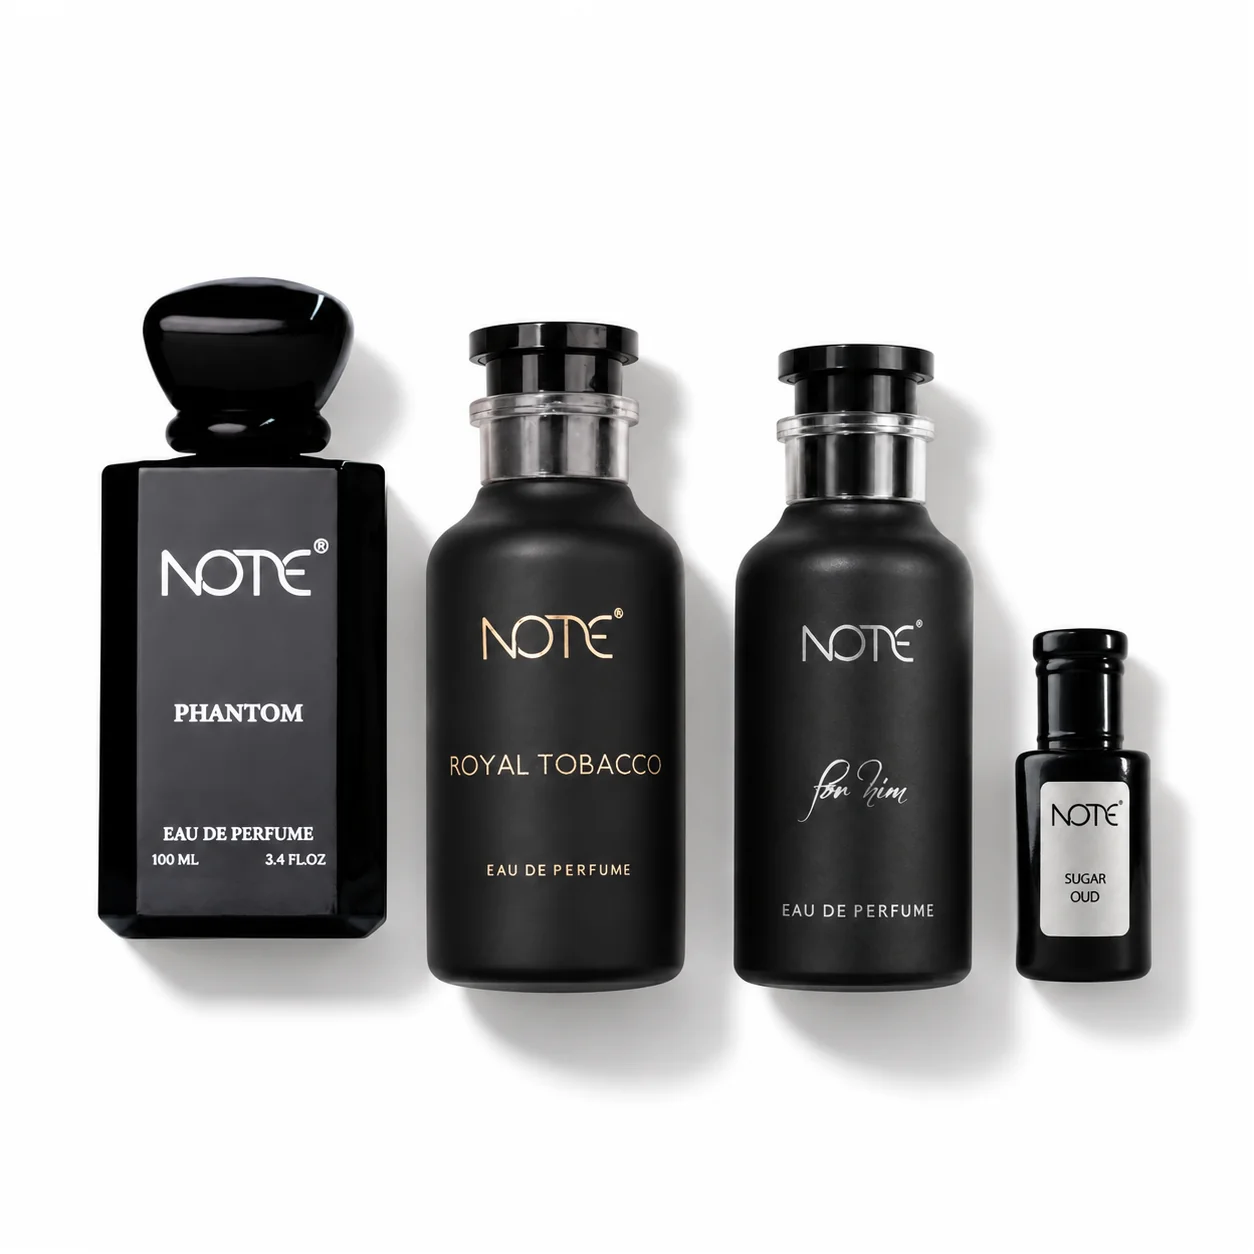
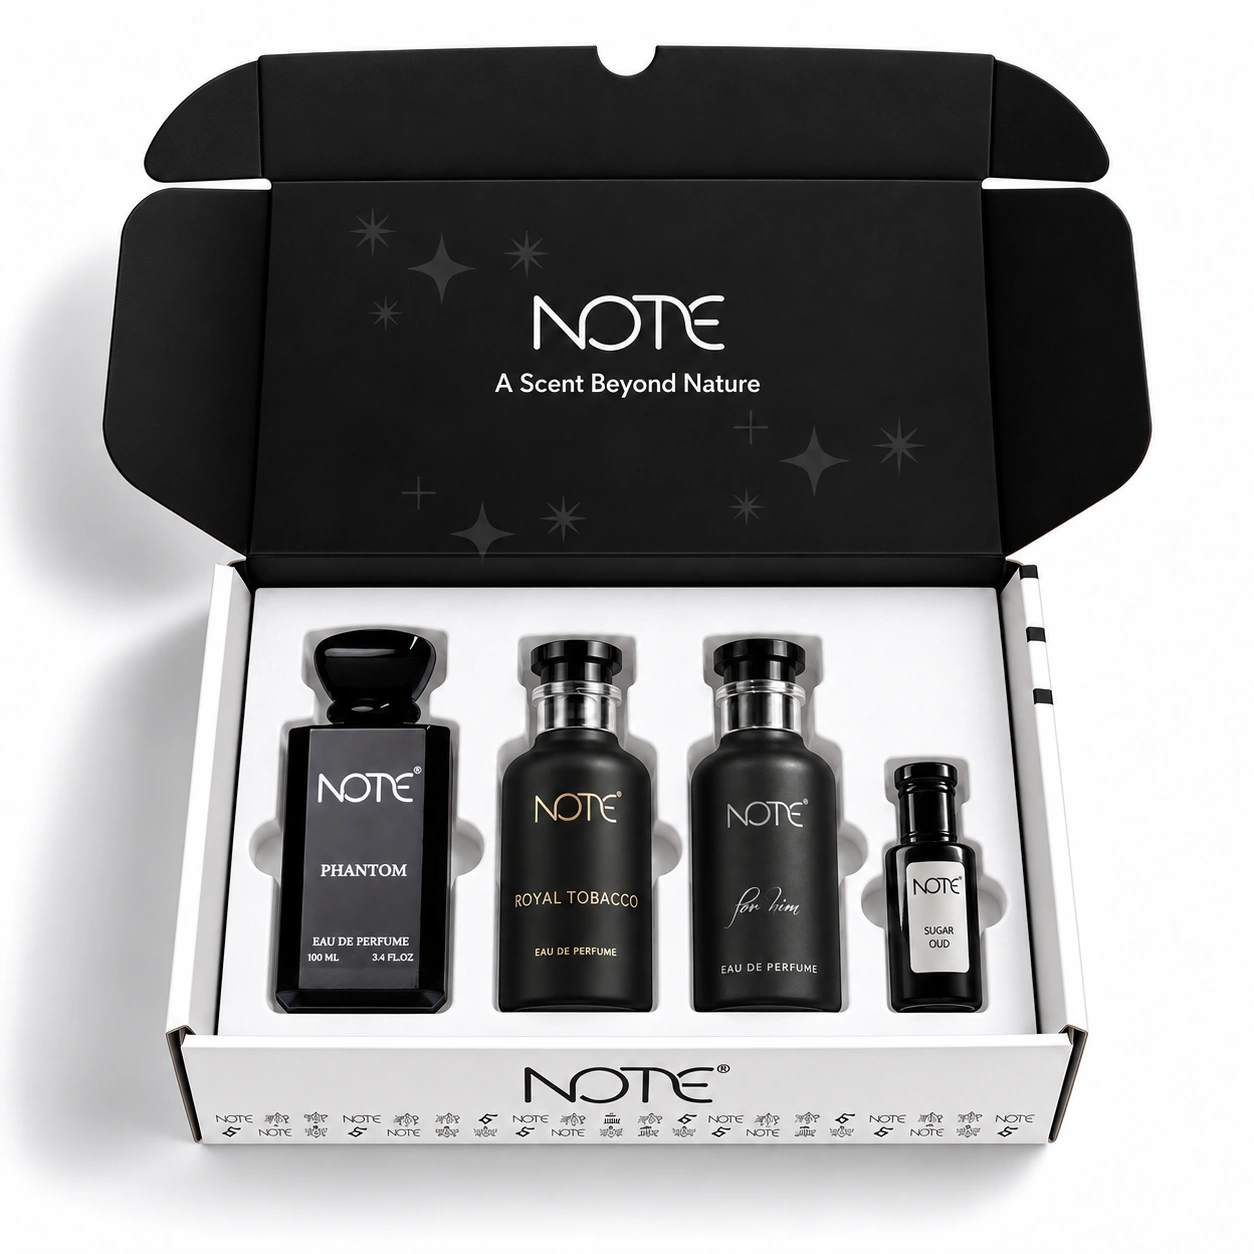
feat(packages): update package product images with luxury brand box assets

diff --git a/note-app.js b/note-app.js
@@ -2449,8 +2449,8 @@ body:has(#cart-drawer:not(.hidden)) [class*="whatsapp"],
     "discount": "30%",
     "rating": 4.95,
     "reviews_count": 52,
-    "img": "/products/01_Royal_Tobacco_White_Flatlay.webp",
-    "img_box": null,
+    "img": "/products/01_Royal_Tobacco_Brand_Box.webp",
+    "img_box": "/products/01_Royal_Tobacco_Brand_Box.webp",
     "notes": "عطر رويال توباكو 100 مل + معطر جسم رويال توباكو",
     "slogan": "ثنائية الفخامة والدفء الشتوي؛ عطر رويال توباكو المركز مع معطر الجسم المتناغم",
     "description": "تتضمن الباقة: عطر رويال توباكو 100 مل المركز بنفحات التبغ والقرنفل والفانيليا، مع معطر الجسم والشعر رويال توباكو لثبات مضاعف يدوم طوال اليوم.",
@@ -2473,8 +2473,8 @@ body:has(#cart-drawer:not(.hidden)) [class*="whatsapp"],
     "discount": "54%",
     "rating": 4.98,
     "reviews_count": 48,
-    "img": "/products/02_Powderose_White_Flatlay.webp",
-    "img_box": null,
+    "img": "/products/02_Powderose_Brand_Box.webp",
+    "img_box": "/products/02_Powderose_Brand_Box.webp",
     "notes": "عطر باودروز 100 مل + معطر جسم باودروز + عطر رويال باودر 100 مل",
     "slogan": "توليفة البودرة والورد الساحرة؛ باقة أنثوية ناعمة تأسرك بنقائها المخملي الفائق",
     "description": "تتضمن الباقة: عطر باودروز 100 مل + معطر الجسم والشعر باودروز + عطر رويال باودر 100 مل. ثلاثية استثنائية لعشاق النفحات البودرية والورد الملكي.",
@@ -2497,8 +2497,8 @@ body:has(#cart-drawer:not(.hidden)) [class*="whatsapp"],
     "discount": "49%",
     "rating": 4.92,
     "reviews_count": 36,
-    "img": "/products/03_Summer_Escape_White_Flatlay.webp",
-    "img_box": null,
+    "img": "/products/03_Summer_Escape_Brand_Box.webp",
+    "img_box": "/products/03_Summer_Escape_Brand_Box.webp",
     "notes": "عطر نوت قولد 100 مل + معطر جسم عسل + معطر جسم بحر",
     "slogan": "انتعاش نسائم البحر وحلاوة العسل مع إشراقة الذهب؛ باقة الصيف الأكثر حيوية ونضارة",
     "description": "تتضمن الباقة: عطر نوت قولد 100 مل مع معطر جسم عسل ومعطر جسم بحر. مزيج متناغم بين الانتعاش البحري البارد ونعومة نفحات العسل الذهبية.",
@@ -2521,8 +2521,8 @@ body:has(#cart-drawer:not(.hidden)) [class*="whatsapp"],
     "discount": "50%",
     "rating": 4.96,
     "reviews_count": 61,
-    "img": "/products/04_Her_Signature_White_Flatlay.webp",
-    "img_box": null,
+    "img": "/products/04_Her_Signature_Brand_Box.webp",
+    "img_box": "/products/04_Her_Signature_Brand_Box.webp",
     "notes": "تولة ليدي روز + عطر أتراكشن 100 مل + عطر نوت فور هير 100 مل",
     "slogan": "توقيع المرأة الأنيقة؛ باقة تجمع بين جاذبية أتراكشن وأنوثة فور هير ورقة تولة ليدي روز",
     "description": "تتضمن الباقة: تولة دهن ليدي روز النقي + عطر أتراكشن 100 مل + عطر نوت فور هير 100 مل. ثلاثية الأناقة المطلقة والجاذبية التي لا تُنسى.",
@@ -2545,8 +2545,8 @@ body:has(#cart-drawer:not(.hidden)) [class*="whatsapp"],
     "discount": "59%",
     "rating": 4.99,
     "reviews_count": 79,
-    "img": "/products/05_Mens_Signature_White_Flatlay.webp",
-    "img_box": null,
+    "img": "/products/05_Mens_Signature_Brand_Box.webp",
+    "img_box": "/products/05_Mens_Signature_Brand_Box.webp",
     "notes": "فانتوم 100 مل + رويال توباكو 100 مل + فور هِم 100 مل + تولة شوجر عود",
     "slogan": "الرباعي الرجالي المتكامل؛ أربعة إصدارات أسطورية تمنحك الحضور والمهابة في كل المناسبات",
     "description": "تتضمن الباقة: عطر فانتوم 100 مل + عطر رويال توباكو 100 مل + عطر فور هِم 100 مل + تولة دهن شوجر عود الفاخر. الباقة الأقوى والأوفر للرجل الباحث عن التميز الكامل.",
@@ -2569,8 +2569,8 @@ body:has(#cart-drawer:not(.hidden)) [class*="whatsapp"],
     "discount": "53%",
     "rating": 4.97,
     "reviews_count": 55,
-    "img": "/products/06_Night_Signature_White_Flatlay.webp",
-    "img_box": null,
+    "img": "/products/06_Night_Signature_Brand_Box.webp",
+    "img_box": "/products/06_Night_Signature_Brand_Box.webp",
     "notes": "عطر فانتوم 100 مل + عطر مسك بخور 100 مل + عطر عود روز وود 100 مل",
     "slogan": "ثلاثية الليالي الملكية؛ فخامة العود الشرقي وسحر البخور وهيبة فانتوم لأمسيات لا تُنسى",
     "description": "تتضمن الباقة: عطر فانتوم 100 مل + عطر مسك بخور 100 مل + عطر عود روز وود 100 مل. تشكيلة ليلية ثقيلة وفواحة تلائم المناسبات الكبرى والاحتفالات.",
@@ -2593,8 +2593,8 @@ body:has(#cart-drawer:not(.hidden)) [class*="whatsapp"],
     "discount": "33%",
     "rating": 4.94,
     "reviews_count": 42,
-    "img": "/products/07_Tollah_Collection_White_Flatlay.webp",
-    "img_box": null,
+    "img": "/products/07_Tollah_Collection_Brand_Box.webp",
+    "img_box": "/products/07_Tollah_Collection_Brand_Box.webp",
     "notes": "اختر أي 3 تولات من دهن المسك والعود الملكي النقي",
     "slogan": "أصالة المسك والدهن النقي؛ اختر تولاتك المفضلة بثبات خيالي يرافقك لأيام",
     "description": "تتيح لك الباقة اختيار أي 3 تولات من تشكيلة دهن العود والمسك النقي (شوجر عود، ليدي روز، مسك توفي، وغيرها) بنقاء 100% وبسعر توفيري مذهل.",
@@ -2617,8 +2617,8 @@ body:has(#cart-drawer:not(.hidden)) [class*="whatsapp"],
     "discount": "44%",
     "rating": 4.93,
     "reviews_count": 39,
-    "img": "/products/08_All_Over_Spray_Collection_White_Flatlay.webp",
-    "img_box": null,
+    "img": "/products/08_All_Over_Spray_Brand_Box.webp",
+    "img_box": "/products/08_All_Over_Spray_Brand_Box.webp",
     "notes": "اختر أي 3 معطرات جسم وشعر من تشكيلة نوت الفاخرة",
     "slogan": "الانتعاش اليومي الكامل للجسم والشعر؛ ثلاث عبوات بحجم كبير تمنحك إحساس النظافة الدائم",
     "description": "اختر أي 3 معطرات جسم وشعر (رويال توباكو، باودروز، عسل، بحر، شوكونيلا، أو نوت توفي) برذاذ خفيف يدوم طويلاً ولا يترك أي أثر.",

diff --git a/products-data.js b/products-data.js
@@ -927,8 +927,8 @@ const noteProductsCatalog = [
     "discount": "30%",
     "rating": 4.95,
     "reviews_count": 52,
-    "img": "/products/01_Royal_Tobacco_White_Flatlay.webp",
-    "img_box": null,
+    "img": "/products/01_Royal_Tobacco_Brand_Box.webp",
+    "img_box": "/products/01_Royal_Tobacco_Brand_Box.webp",
     "notes": "عطر رويال توباكو 100 مل + معطر جسم رويال توباكو",
     "slogan": "ثنائية الفخامة والدفء الشتوي؛ عطر رويال توباكو المركز مع معطر الجسم المتناغم",
     "description": "تتضمن الباقة: عطر رويال توباكو 100 مل المركز بنفحات التبغ والقرنفل والفانيليا، مع معطر الجسم والشعر رويال توباكو لثبات مضاعف يدوم طوال اليوم.",
@@ -951,8 +951,8 @@ const noteProductsCatalog = [
     "discount": "54%",
     "rating": 4.98,
     "reviews_count": 48,
-    "img": "/products/02_Powderose_White_Flatlay.webp",
-    "img_box": null,
+    "img": "/products/02_Powderose_Brand_Box.webp",
+    "img_box": "/products/02_Powderose_Brand_Box.webp",
     "notes": "عطر باودروز 100 مل + معطر جسم باودروز + عطر رويال باودر 100 مل",
     "slogan": "توليفة البودرة والورد الساحرة؛ باقة أنثوية ناعمة تأسرك بنقائها المخملي الفائق",
     "description": "تتضمن الباقة: عطر باودروز 100 مل + معطر الجسم والشعر باودروز + عطر رويال باودر 100 مل. ثلاثية استثنائية لعشاق النفحات البودرية والورد الملكي.",
@@ -975,8 +975,8 @@ const noteProductsCatalog = [
     "discount": "49%",
     "rating": 4.92,
     "reviews_count": 36,
-    "img": "/products/03_Summer_Escape_White_Flatlay.webp",
-    "img_box": null,
+    "img": "/products/03_Summer_Escape_Brand_Box.webp",
+    "img_box": "/products/03_Summer_Escape_Brand_Box.webp",
     "notes": "عطر نوت قولد 100 مل + معطر جسم عسل + معطر جسم بحر",
     "slogan": "انتعاش نسائم البحر وحلاوة العسل مع إشراقة الذهب؛ باقة الصيف الأكثر حيوية ونضارة",
     "description": "تتضمن الباقة: عطر نوت قولد 100 مل مع معطر جسم عسل ومعطر جسم بحر. مزيج متناغم بين الانتعاش البحري البارد ونعومة نفحات العسل الذهبية.",
@@ -999,8 +999,8 @@ const noteProductsCatalog = [
     "discount": "50%",
     "rating": 4.96,
     "reviews_count": 61,
-    "img": "/products/04_Her_Signature_White_Flatlay.webp",
-    "img_box": null,
+    "img": "/products/04_Her_Signature_Brand_Box.webp",
+    "img_box": "/products/04_Her_Signature_Brand_Box.webp",
     "notes": "تولة ليدي روز + عطر أتراكشن 100 مل + عطر نوت فور هير 100 مل",
     "slogan": "توقيع المرأة الأنيقة؛ باقة تجمع بين جاذبية أتراكشن وأنوثة فور هير ورقة تولة ليدي روز",
     "description": "تتضمن الباقة: تولة دهن ليدي روز النقي + عطر أتراكشن 100 مل + عطر نوت فور هير 100 مل. ثلاثية الأناقة المطلقة والجاذبية التي لا تُنسى.",
@@ -1023,8 +1023,8 @@ const noteProductsCatalog = [
     "discount": "59%",
     "rating": 4.99,
     "reviews_count": 79,
-    "img": "/products/05_Mens_Signature_White_Flatlay.webp",
-    "img_box": null,
+    "img": "/products/05_Mens_Signature_Brand_Box.webp",
+    "img_box": "/products/05_Mens_Signature_Brand_Box.webp",
     "notes": "فانتوم 100 مل + رويال توباكو 100 مل + فور هِم 100 مل + تولة شوجر عود",
     "slogan": "الرباعي الرجالي المتكامل؛ أربعة إصدارات أسطورية تمنحك الحضور والمهابة في كل المناسبات",
     "description": "تتضمن الباقة: عطر فانتوم 100 مل + عطر رويال توباكو 100 مل + عطر فور هِم 100 مل + تولة دهن شوجر عود الفاخر. الباقة الأقوى والأوفر للرجل الباحث عن التميز الكامل.",
@@ -1047,8 +1047,8 @@ const noteProductsCatalog = [
     "discount": "53%",
     "rating": 4.97,
     "reviews_count": 55,
-    "img": "/products/06_Night_Signature_White_Flatlay.webp",
-    "img_box": null,
+    "img": "/products/06_Night_Signature_Brand_Box.webp",
+    "img_box": "/products/06_Night_Signature_Brand_Box.webp",
     "notes": "عطر فانتوم 100 مل + عطر مسك بخور 100 مل + عطر عود روز وود 100 مل",
     "slogan": "ثلاثية الليالي الملكية؛ فخامة العود الشرقي وسحر البخور وهيبة فانتوم لأمسيات لا تُنسى",
     "description": "تتضمن الباقة: عطر فانتوم 100 مل + عطر مسك بخور 100 مل + عطر عود روز وود 100 مل. تشكيلة ليلية ثقيلة وفواحة تلائم المناسبات الكبرى والاحتفالات.",
@@ -1071,8 +1071,8 @@ const noteProductsCatalog = [
     "discount": "33%",
     "rating": 4.94,
     "reviews_count": 42,
-    "img": "/products/07_Tollah_Collection_White_Flatlay.webp",
-    "img_box": null,
+    "img": "/products/07_Tollah_Collection_Brand_Box.webp",
+    "img_box": "/products/07_Tollah_Collection_Brand_Box.webp",
     "notes": "اختر أي 3 تولات من دهن المسك والعود الملكي النقي",
     "slogan": "أصالة المسك والدهن النقي؛ اختر تولاتك المفضلة بثبات خيالي يرافقك لأيام",
     "description": "تتيح لك الباقة اختيار أي 3 تولات من تشكيلة دهن العود والمسك النقي (شوجر عود، ليدي روز، مسك توفي، وغيرها) بنقاء 100% وبسعر توفيري مذهل.",
@@ -1095,8 +1095,8 @@ const noteProductsCatalog = [
     "discount": "44%",
     "rating": 4.93,
     "reviews_count": 39,
-    "img": "/products/08_All_Over_Spray_Collection_White_Flatlay.webp",
-    "img_box": null,
+    "img": "/products/08_All_Over_Spray_Brand_Box.webp",
+    "img_box": "/products/08_All_Over_Spray_Brand_Box.webp",
     "notes": "اختر أي 3 معطرات جسم وشعر من تشكيلة نوت الفاخرة",
     "slogan": "الانتعاش اليومي الكامل للجسم والشعر؛ ثلاث عبوات بحجم كبير تمنحك إحساس النظافة الدائم",
     "description": "اختر أي 3 معطرات جسم وشعر (رويال توباكو، باودروز، عسل، بحر، شوكونيلا، أو نوت توفي) برذاذ خفيف يدوم طويلاً ولا يترك أي أثر.",
